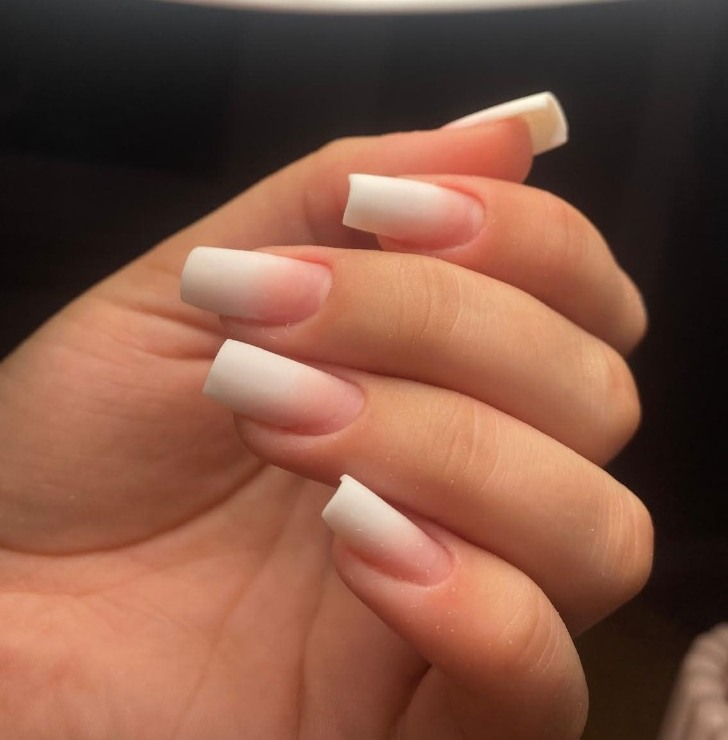
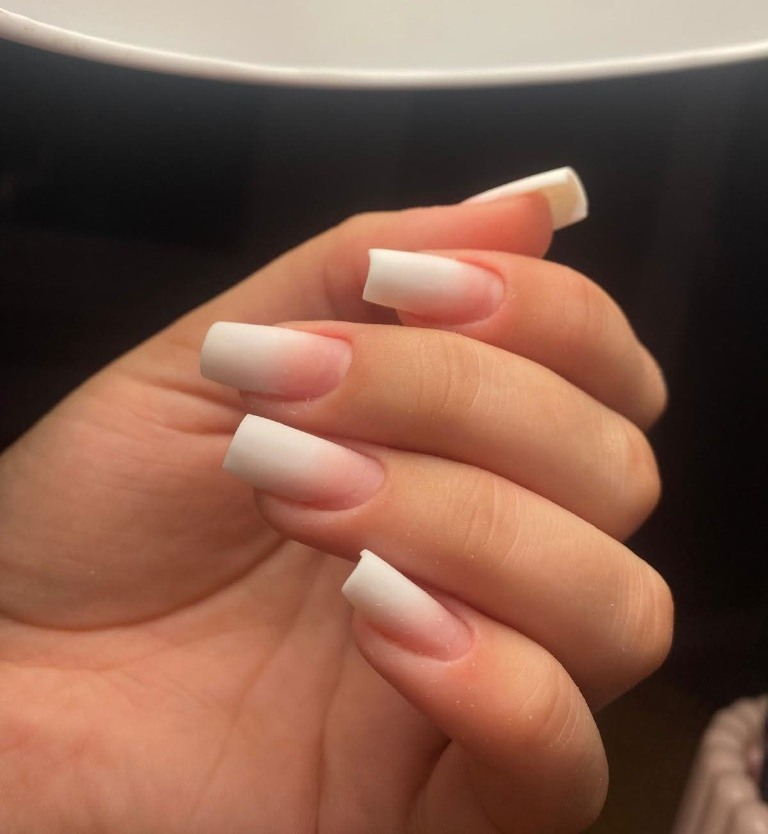
manicure foto aangepast

diff --git a/src/pages/Home.jsx b/src/pages/Home.jsx
@@ -1,12 +1,34 @@
+import { useState, useEffect } from 'react';
 import { Link } from 'react-router-dom';
 import WhatsNew from '../components/WhatsNew';
 import useDocumentTitle from '../hooks/useDocumentTitle';
 import { useBooking } from '../context/BookingContext';
 import './Home.css';
 
+const MANICURE_SLIDES = [
+  {
+    src: '/assets/portfolio/home-manicure-incl.jpg',
+    alt: 'Manicure incl. gellak voorbeeld',
+    badge: 'incl. gellak',
+  },
+  {
+    src: '/assets/portfolio/home-manicure-excl.jpg',
+    alt: 'Manicure excl. gellak voorbeeld',
+    badge: 'excl. gellak',
+  },
+];
+
 const Home = () => {
   useDocumentTitle('Professionele Nagelstudio Laakdal', 'Welkom bij Beauty Nails by Diana in Laakdal. Dé plek voor professionele nagelverzorging, BIAB, gellak en kunstnagels. Boek nu uw afspraak bij Diana.');
   const { openModal } = useBooking();
+  const [manicureIndex, setManicureIndex] = useState(0);
+
+  useEffect(() => {
+    const timer = setInterval(() => {
+      setManicureIndex((prev) => (prev + 1) % MANICURE_SLIDES.length);
+    }, 3000);
+    return () => clearInterval(timer);
+  }, []);
 
   return (
     <div className="home-page">
@@ -84,16 +106,25 @@ const Home = () => {
             <img src="/assets/portfolio/home-biab.jpg" alt="BIAB voorbeeld" loading="lazy" />
             <div className="home-service-tile-label">BIAB</div>
           </Link>
-          <Link to="/services" className="home-service-tile home-service-tile-split">
-            <div className="home-service-split-grid">
-              <div className="home-service-split-item">
-                <img src="/assets/portfolio/home-manicure-incl.jpg" alt="Manicure incl. gellak voorbeeld" loading="lazy" />
-                <span className="home-service-sublabel">incl. gellak</span>
-              </div>
-              <div className="home-service-split-item">
-                <img src="/assets/portfolio/home-manicure-excl.jpg" alt="Manicure excl. gellak voorbeeld" loading="lazy" />
-                <span className="home-service-sublabel">excl. gellak</span>
-              </div>
+          <Link to="/services" className="home-service-tile home-service-tile-carousel">
+            <div
+              className="home-service-carousel-track"
+              style={{ transform: `translateX(-${manicureIndex * 50}%)` }}
+            >
+              {MANICURE_SLIDES.map((slide) => (
+                <div className="home-service-carousel-slide" key={slide.badge}>
+                  <img src={slide.src} alt={slide.alt} loading="lazy" />
+                  <span className="home-service-sublabel">{slide.badge}</span>
+                </div>
+              ))}
+            </div>
+            <div className="home-service-carousel-dots">
+              {MANICURE_SLIDES.map((slide, idx) => (
+                <span
+                  key={slide.badge}
+                  className={`home-service-carousel-dot ${idx === manicureIndex ? 'active' : ''}`}
+                />
+              ))}
             </div>
             <div className="home-service-tile-label">Manicure</div>
           </Link>

diff --git a/src/pages/Home.css b/src/pages/Home.css
@@ -285,36 +285,59 @@
   transform: scale(1.06);
 }
 
-.home-service-split-grid {
-  display: grid;
-  grid-template-columns: 1fr 1fr;
-  gap: 3px;
-  width: 100%;
+.home-service-carousel-track {
+  display: flex;
+  width: 200%;
   height: 100%;
-  background: #FFF6FA;
+  transition: transform 0.6s cubic-bezier(0.25, 1, 0.5, 1);
 }
 
-.home-service-split-item {
+.home-service-carousel-slide {
   position: relative;
-  width: 100%;
+  width: 50%;
   height: 100%;
+  flex-shrink: 0;
   overflow: hidden;
 }
 
 .home-service-sublabel {
   position: absolute;
-  bottom: 46px;
-  right: 8px;
-  background: rgba(74, 18, 48, 0.82);
+  bottom: 14px;
+  right: 14px;
+  background: rgba(74, 18, 48, 0.85);
   color: #fff;
-  font-size: 0.72rem;
+  font-size: 0.75rem;
   font-weight: 500;
-  padding: 3px 8px;
+  padding: 4px 10px;
   border-radius: 4px;
   letter-spacing: 0.3px;
-  z-index: 2;
+  z-index: 4;
   pointer-events: none;
   backdrop-filter: blur(3px);
+}
+
+.home-service-carousel-dots {
+  position: absolute;
+  top: 12px;
+  right: 12px;
+  display: flex;
+  gap: 6px;
+  z-index: 4;
+  pointer-events: none;
+}
+
+.home-service-carousel-dot {
+  width: 7px;
+  height: 7px;
+  border-radius: 50%;
+  background: rgba(255, 255, 255, 0.5);
+  transition: all 0.3s ease;
+  box-shadow: 0 1px 3px rgba(0, 0, 0, 0.3);
+}
+
+.home-service-carousel-dot.active {
+  background: #fff;
+  transform: scale(1.25);
 }
 
 .home-service-tile-label {
